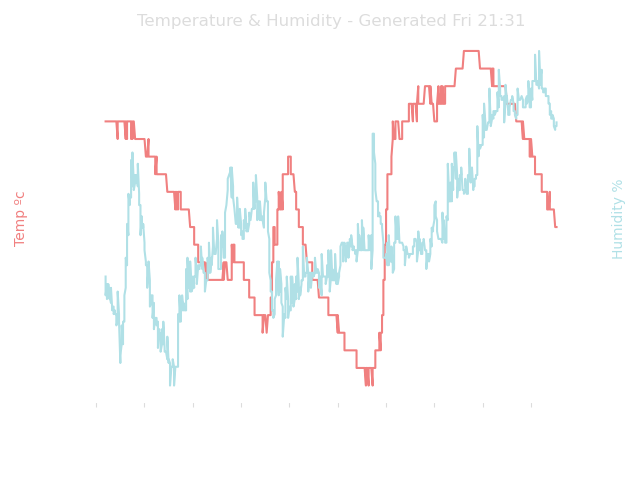
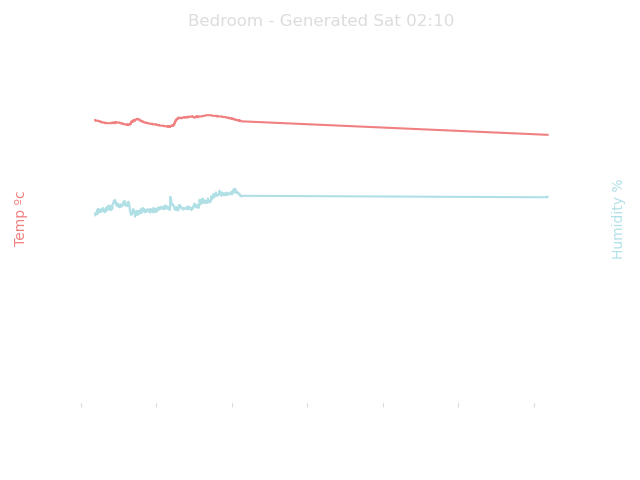
re-enable the dht database function. Whoops

diff --git a/plotter.py b/plotter.py
@@ -15,26 +15,26 @@ plt.style.use('dark_background')
 
 
 
-def generate_chart_image(data, output_filename):
+def generate_chart_image(data, title):
     x_axis = [dt.fromtimestamp(row[0]) for row in data]
     temp = [row[2] for row in data]
     humd = [row[3] for row in data]
 
     fig, temp_axis = plt.subplots()
     humd_axis = temp_axis.twinx()
-    #temp_axis.set_ylim(0, 30)
-    #humd_axis.set_ylim(20,80)
+    temp_axis.set_ylim(-30, 30)
+    humd_axis.set_ylim(0,100)
     temp_axis.tick_params(axis='x', rotation=45, color=OTHER_COLOUR)
     temp_axis.set_ylabel("Temp ºc", color=TEMP_COLOUR)
     humd_axis.set_ylabel("Humidity %", color=HUMD_COLOUR)
 
     temp_axis.plot(x_axis, temp, color=TEMP_COLOUR)
     humd_axis.plot(x_axis, humd, color=HUMD_COLOUR)
-    plt.title("Temperature & Humidity - Generated %s" % time.strftime('%a %H:%M'), color=OTHER_COLOUR)
+    plt.title("%s - Generated %s" % (title, time.strftime('%a %H:%M')), color=OTHER_COLOUR)
     fig.tight_layout(pad=1)
-    plt.savefig("/home/lewis/bedroomweather/static/%s.png" % output_filename, format='png', transparent=True)
+    plt.savefig("/home/lewis/bedroomweather/static/%s.png" % title.lower(), format='png', transparent=True)
     plt.close(fig)
 
-generate_chart_image(bedroom_data, 'bedroom')
-generate_chart_image(outdoor_data, 'outdoor')
+generate_chart_image(bedroom_data, 'Bedroom')
+generate_chart_image(outdoor_data, 'Outdoor')
 sys.exit()

diff --git a/server.py b/server.py
@@ -10,7 +10,7 @@ def home():
     <center>
     <title>Bedroom Weather</title>
     <body style="background: url(static/bokeh.jpg); background-size: auto;
-    color:#c1e2f5; font-family: Tahoma, sans-serif;">
+    color:#c1e2f5; font-family: arial; font-style: italic; letter-spacing: 3px;">
     <h1>Bedroom Weather</h1>
     <p>%s</p>
     <p>%s°c</p>

diff --git a/sql_operations.py b/sql_operations.py
@@ -36,5 +36,5 @@ def log_outdoor_reading_to_db():
     cur.execute(sql_insert_statement)
     con.commit()
 
-#log_dht_reading_to_db()
+log_dht_reading_to_db()
 log_outdoor_reading_to_db()
